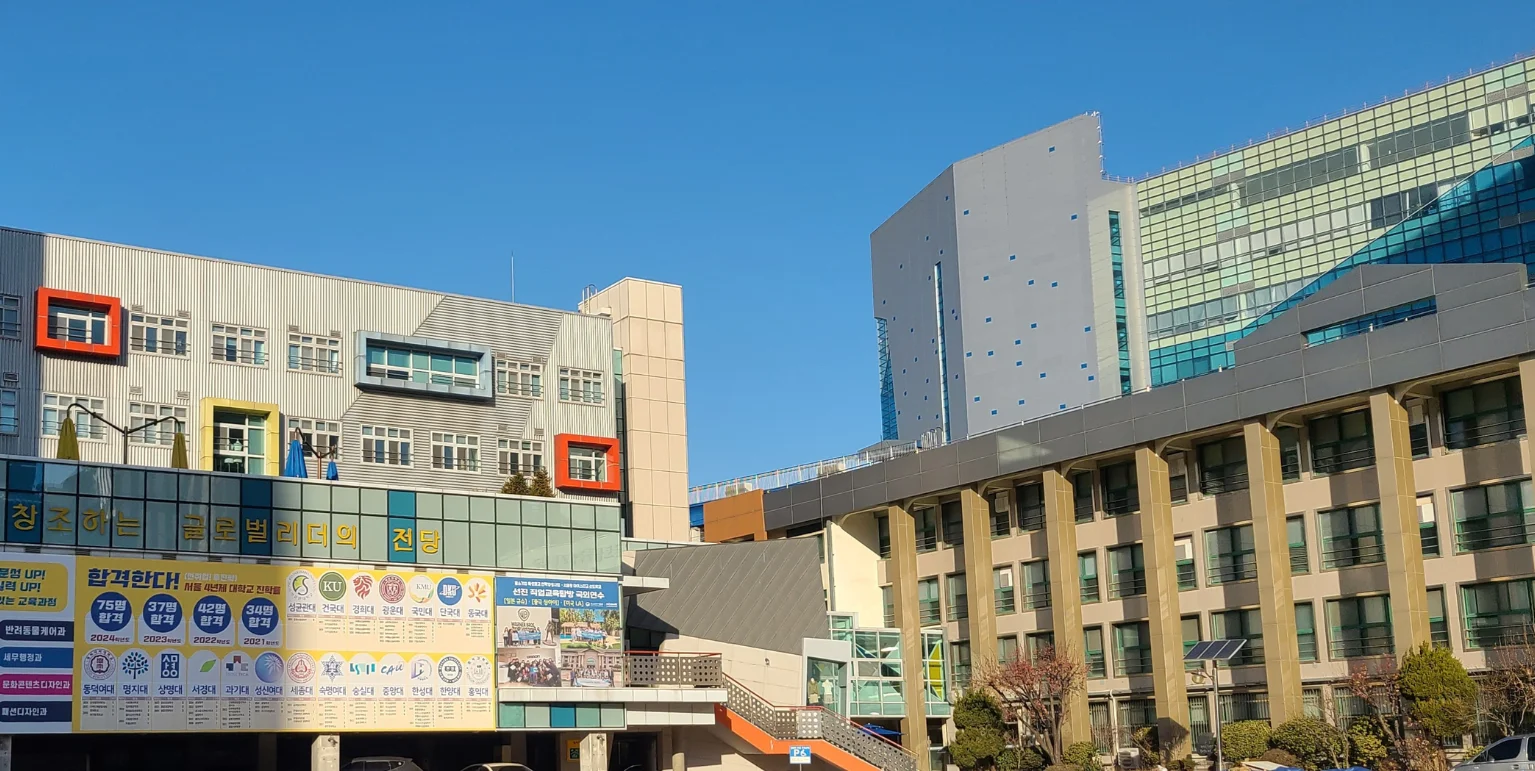
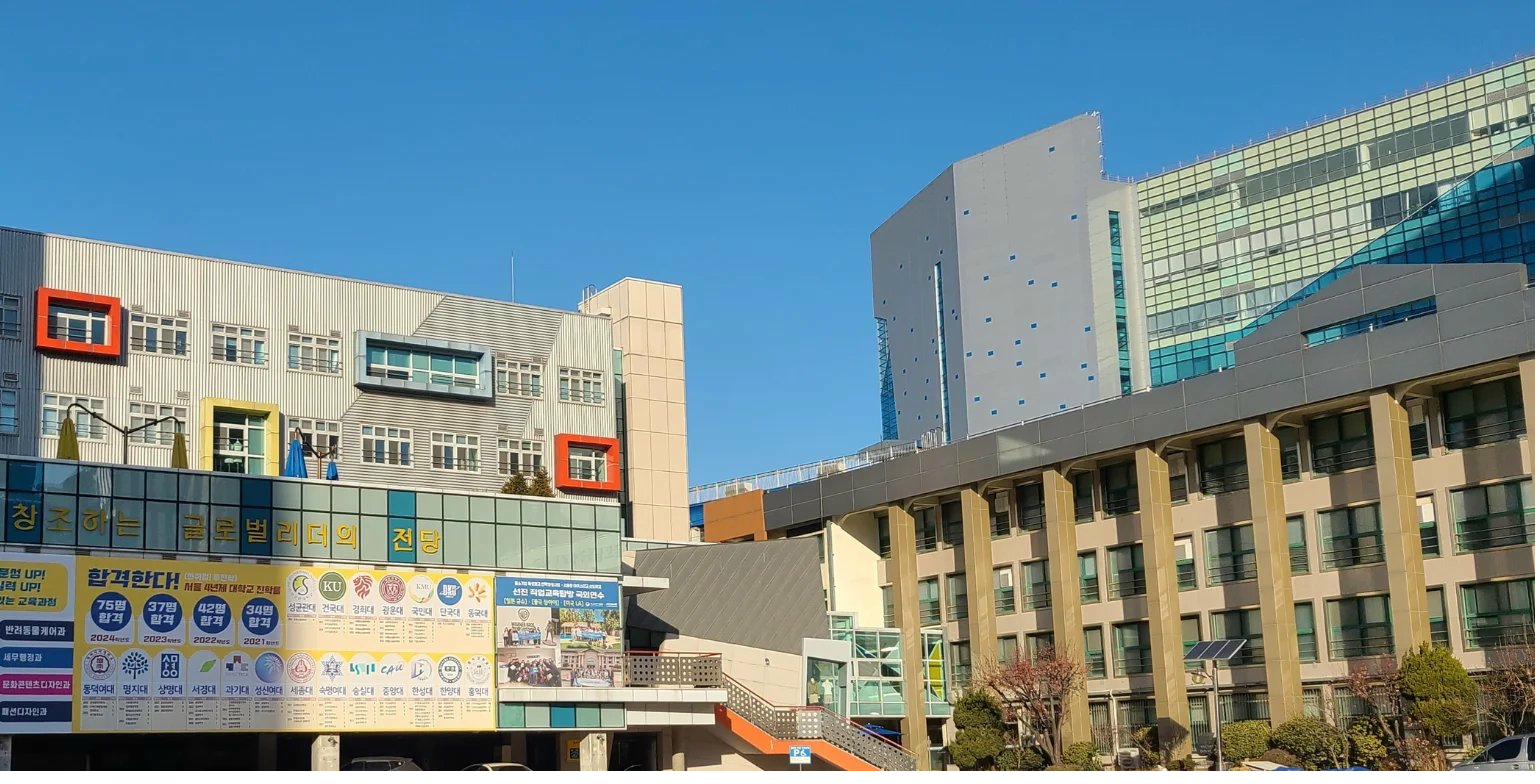
Add files via upload

diff --git a/index.html b/index.html
@@ -43,8 +43,9 @@
             <p class="hero-subtitle" id="hero-subtitle">IT · AI · 교육 이야기</p>
             <h1 class="hero-title" id="hero-title">재홍샘 블로그</h1>
             <div class="hero-buttons" id="hero-buttons">
-                <a href="blog.html" class="btn btn-primary">블로그 보기</a>
+                <a href="blog.html" class="btn btn-secondary">블로그 보기</a>
                 <a href="#about" class="btn btn-secondary">소개</a>
+                <a href="https://blog-ai-chat.streamlit.app" class="btn btn-secondary" target="_blank">AI 챗봇</a>
             </div>
         </div>
     </section>

diff --git a/blog.html b/blog.html
@@ -9,16 +9,6 @@
     <link rel="preconnect" href="https://fonts.googleapis.com">
     <link rel="preconnect" href="https://fonts.gstatic.com" crossorigin>
     <link href="https://fonts.googleapis.com/css2?family=Noto+Sans+KR:wght@300;400;500;600;700;800&display=swap" rel="stylesheet">
-
-    <!-- Google tag (gtag.js) -->
-<script async src="https://www.googletagmanager.com/gtag/js?id=G-LC0G48EN3M"></script>
-<script>
-  window.dataLayer = window.dataLayer || [];
-  function gtag(){dataLayer.push(arguments);}
-  gtag('js', new Date());
-
-  gtag('config', 'G-LC0G48EN3M');
-</script>
 </head>
 <body>
     <!-- 헤더 -->

diff --git a/post.html b/post.html
@@ -9,16 +9,6 @@
     <link rel="preconnect" href="https://fonts.googleapis.com">
     <link rel="preconnect" href="https://fonts.gstatic.com" crossorigin>
     <link href="https://fonts.googleapis.com/css2?family=Noto+Sans+KR:wght@300;400;500;600;700;800&display=swap" rel="stylesheet">
-
-    <!-- Google tag (gtag.js) -->
-<script async src="https://www.googletagmanager.com/gtag/js?id=G-LC0G48EN3M"></script>
-<script>
-  window.dataLayer = window.dataLayer || [];
-  function gtag(){dataLayer.push(arguments);}
-  gtag('js', new Date());
-
-  gtag('config', 'G-LC0G48EN3M');
-</script>
 </head>
 <body>
     <!-- 헤더 -->

diff --git a/style.css b/style.css
@@ -254,18 +254,6 @@ img {
     color: var(--white);
 }
 
-.btn-chatbot {
-    background: linear-gradient(135deg, #8b5cf6 0%, #6366f1 100%);
-    color: var(--white);
-    box-shadow: 0 4px 14px rgba(139, 92, 246, 0.4);
-}
-
-.btn-chatbot:hover {
-    background: linear-gradient(135deg, #7c3aed 0%, #4f46e5 100%);
-    transform: translateY(-2px);
-    box-shadow: 0 6px 20px rgba(139, 92, 246, 0.5);
-}
-
 /* === ì„¹ì…˜ ê³µí†µ === */
 .section-header {
     text-align: center;
